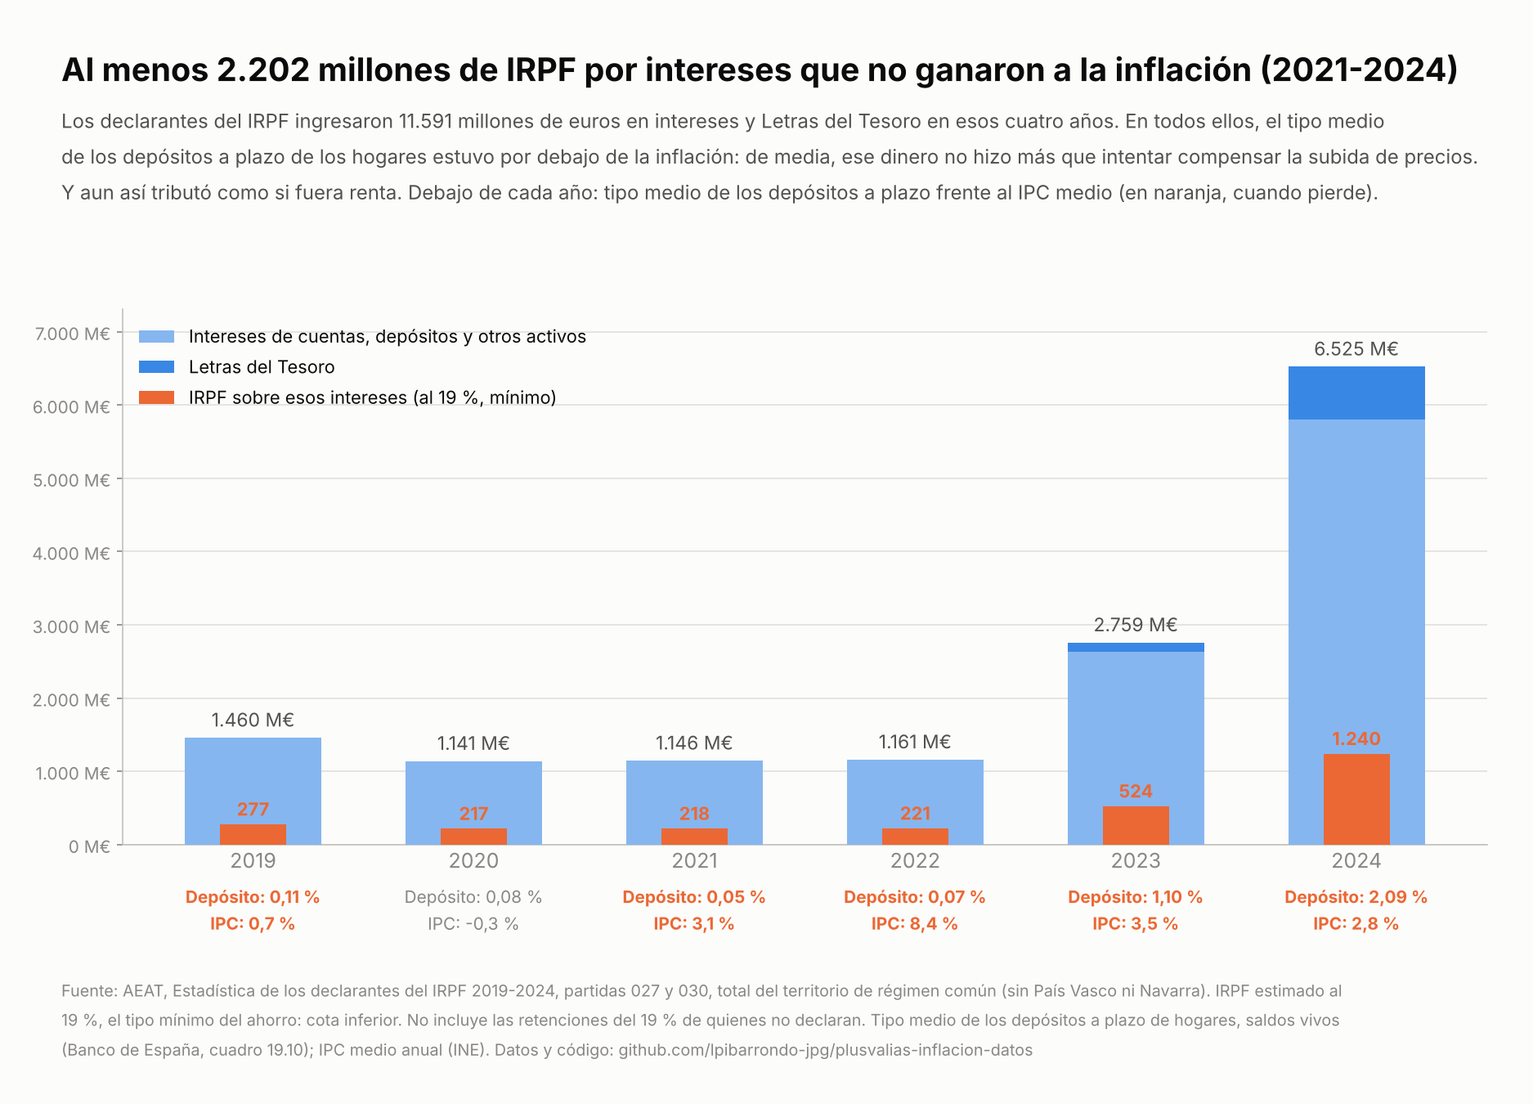
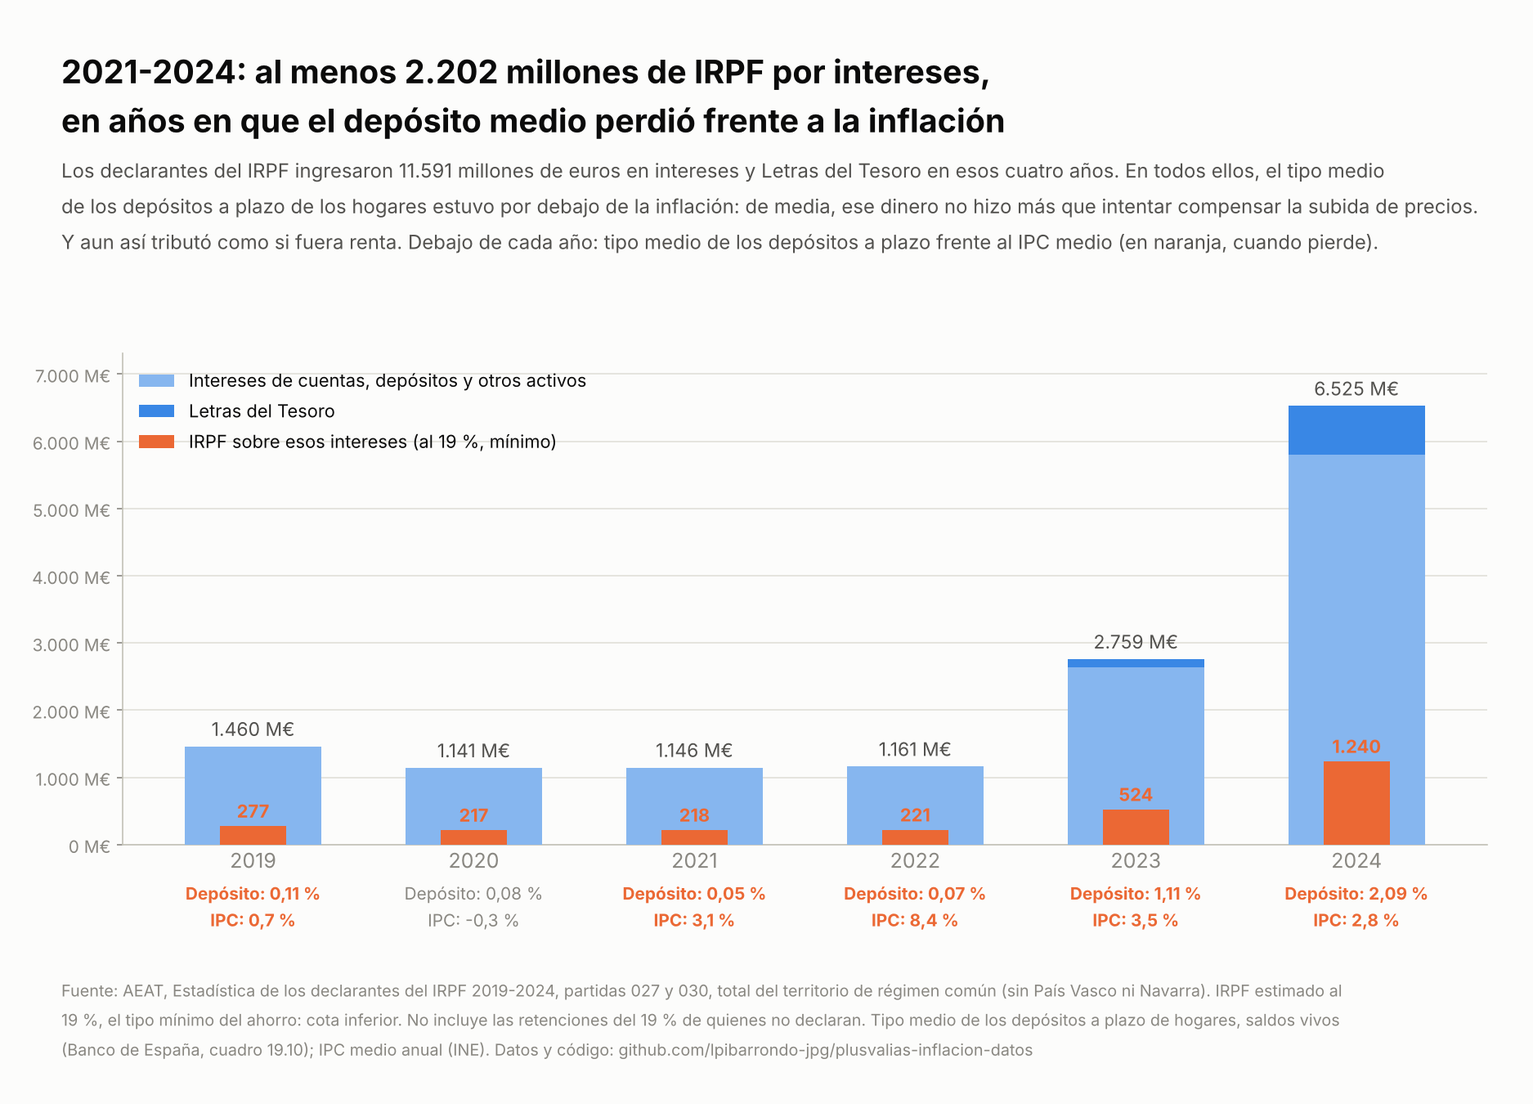
Correcciones de la segunda auditoría: titular y redondeo del gráfico 11, importe en el gráfico 12, nota del IPC 1961-2001 e informe archivado
Claude-Session: https://claude.ai/code/session_01QeTGQYbx89ftvAVY3WUtRJ

diff --git a/scripts/intereses_agregado.py b/scripts/intereses_agregado.py
@@ -25,14 +25,14 @@ def datos():
         filas.append(dict(ejercicio=y, intereses_027=imp["027"], letras_030=imp["030"], total_intereses=intereses,
                           irpf_19=round(intereses * T), cuota_ahorro_total=imp["540"] + imp["541"], base_liquidable_ahorro=imp["510"],
                           tipo_medio_ahorro=round((imp["540"] + imp["541"]) / imp["510"], 4),
-                          tipo_depositos_plazo_saldos=round(tipo, 3), ipc_medio_anual=round(ipc, 2)))
+                          tipo_depositos_plazo_saldos=round(tipo, 4), ipc_medio_anual=round(ipc, 2)))
     with open(RAIZ / "data" / "processed" / "grafico11_intereses_irpf_inflacion.csv", "w", newline="", encoding="utf-8") as f:
         w = csv.DictWriter(f, fieldnames=filas[0].keys()); w.writeheader(); w.writerows(filas)
     return filas
 
 def grafico(filas):
     fig, ax = plt.subplots(figsize=(12.5, 9), dpi=150)
-    fig.subplots_adjust(left=0.08, right=0.97, top=0.72, bottom=0.235)
+    fig.subplots_adjust(left=0.08, right=0.97, top=0.68, bottom=0.235)
     x = [f["ejercicio"] for f in filas]
     a = [f["intereses_027"] / 1e6 for f in filas]; b = [max(f["letras_030"], 0) / 1e6 for f in filas]
     irpf = [f["irpf_19"] / 1e6 for f in filas]
@@ -55,9 +55,9 @@ def grafico(filas):
     ax.legend(loc="upper left", frameon=False, fontsize=10.5)
     p = [f for f in filas if f["ejercicio"] >= 2021]
     tot = sum(f["total_intereses"] for f in p) / 1e6; ir = sum(f["irpf_19"] for f in p) / 1e6
-    fig.text(0.04, 0.955, f"Al menos {es(ir)} millones de IRPF por intereses que no ganaron a la inflación (2021-2024)",
-             fontsize=19, fontweight="bold", ha="left", va="top")
-    fig.text(0.04, 0.905,
+    fig.text(0.04, 0.955, f"2021-2024: al menos {es(ir)} millones de IRPF por intereses,\nen años en que el depósito medio perdió frente a la inflación",
+             fontsize=19, fontweight="bold", linespacing=1.25, ha="left", va="top")
+    fig.text(0.04, 0.86,
              f"Los declarantes del IRPF ingresaron {es(tot)} millones de euros en intereses y Letras del Tesoro en esos cuatro años. "
              "En todos ellos, el tipo medio\nde los depósitos a plazo de los hogares estuvo por debajo de la inflación: de media, "
              "ese dinero no hizo más que intentar compensar la subida de precios.\nY aun así tributó como si fuera renta. "

diff --git a/scripts/quien_paga.py b/scripts/quien_paga.py
@@ -58,11 +58,11 @@ def grafico(fil, res):
     fig.text(0.04, 0.955, f"No es cosa de ricos: {es(pp * 100)} de cada 100 declaraciones con intereses son de rentas de 30.000 € o menos",
              fontsize=16.5, fontweight="bold", ha="left", va="top")
     fig.text(0.04, 0.905,
-             f"En 2024, {es(res['total_personas'] / 1e6, 1)} millones de declaraciones del IRPF incluyeron intereses de cuentas y depósitos. "
-             f"{es(res['hasta30_personas'] / 1e6, 1)} millones eran de rentas totales de 30.000 € o menos.\n"
-             f"Solo en las de 12.000 a 30.000 € ({es(res['medios_personas'] / 1e6, 2)} millones de declaraciones), los intereses sumaron {es(res['medios_importe'] / 1e6)} millones "
-             f"y el IRPF, al menos {es(res['medios_importe'] * 0.19 / 1e6)} millones,\nen un año en que el depósito a plazo medio pagaba un 2,09 % "
-             "con la inflación en el 2,8 %. Bajo cada tramo: interés medio declarado e IRPF al 19 %.",
+             f"En 2024, {es(res['total_personas'] / 1e6, 1)} millones de declaraciones del IRPF incluyeron intereses. "
+             f"{es(res['hasta30_personas'] / 1e6, 1)} millones eran de rentas de 30.000 € o menos (con el {es(res['hasta30_importe'] / res['total_importe'] * 100, 1)} % del importe).\n"
+             f"Solo en las de 12.000 a 30.000 € ({es(res['medios_personas'] / 1e6, 2)} millones), los intereses sumaron {es(res['medios_importe'] / 1e6)} millones "
+             f"y el IRPF, al menos {es(res['medios_importe'] * 0.19 / 1e6)} millones, en un año en que\n"
+             "el depósito a plazo medio pagaba un 2,09 % con la inflación en el 2,8 %. Bajo cada tramo: interés medio declarado e IRPF al 19 %.",
              fontsize=11.5, color=TINTA2, ha="left", va="top", linespacing=1.5)
     pie(fig, "Fuente: AEAT, Estadística de los declarantes del IRPF 2024, partida 027 (intereses de cuentas, depósitos y activos financieros en general), por tramos\n"
              "de rendimientos e imputaciones del declarante; territorio de régimen común. No incluye Letras del Tesoro (partida 030) ni a quienes no declaran.\n"

diff --git a/auditorias/2026-11-23_gemini_segunda_ronda.md b/auditorias/2026-11-23_gemini_segunda_ronda.md
@@ -1,0 +1,108 @@
+# Informe de auditoría independiente (solo lectura) — Segunda ronda
+
+- **Proyecto auditado:** Base de datos, cálculos, gráficos y calculadora del artículo sobre IRPF, plusvalías nominales, intereses e inflación.
+- **Repositorio de referencia:** `https://github.com/lpibarrondo-jpg/plusvalias-inflacion-datos` (commit `bf58ea4`).
+- **Material revisado:** `paquete_auditoria.txt` (encargo, `README.md`, scripts de `scripts/`, tablas procesadas de `data/processed/`, extractos de `data/raw/` y lógica de `calculadora/plantilla.html`) y `graficos.pdf` (13 gráficos).
+- **Fecha del informe:** 23 de noviembre de 2026.
+- **Alcance:** Auditoría independiente de datos, cálculos, coherencia gráfica, supuestos metodológicos e imparcialidad periodística, centrada en los gráficos 6 a 12 y la calculadora (con repaso general de los gráficos 1 a 5).
+
+---
+
+## 1. Veredicto: ¿se puede publicar tal cual?
+
+**Sí, con dos ajustes menores recomendados antes de publicar (y sin ningún error crítico de cálculo).**
+
+La base numérica, las fórmulas fiscales (escala del ahorro de 2026, exención proporcional por reinversión, encadenamiento del IPC) y la documentación metodológica son sólidas y coherentes entre los scripts, los archivos CSV procesados y los gráficos finales. No se ha detectado ninguna afirmación partidista ni petición de voto.
+
+Antes de la publicación en semana electoral, conviene aplicar dos correcciones puntuales para evitar flancos de crítica técnica:
+
+1. **Matizar el titular del Gráfico 11**, añadiendo la referencia a «de media» o «en años en que el depósito medio perdió frente a la inflación», para que no parezca que el 100 % de los 11.591 millones de euros (que incluyen Letras del Tesoro de 2023 y 2024) perdieron poder adquisitivo.
+2. **Actualizar la nota metodológica del `README.md`** sobre las variaciones del IPC de 1961–2001, eliminando la frase que afirma que «no se usan en los cálculos», ya que sí se utilizan en el Gráfico 9 (1995–2001), la sensibilidad del Gráfico 5 y la calculadora.
+
+---
+
+## 2. Tabla de hallazgos
+
+| Gravedad | Archivo o gráfico | Qué falla | Cómo comprobarlo / reproducirlo | Corrección propuesta |
+| :--- | :--- | :--- | :--- | :--- |
+| **Importante** | `graficos.pdf` (Gráfico 11, p. 12) y afirmación del artículo | El titular afirma: *«Al menos 2.202 millones de IRPF por intereses **que no ganaron a la inflación** (2021-2024)»*. Esa cifra ($11.591\text{ M€} \times 19\text{ \%}$) incluye 720 M€ de Letras del Tesoro en 2024 y 124 M€ en 2023, pero el propio Gráfico 10 muestra que en 10 de las 41 subastas las Letras sí superaron a la inflación. Además, incluye intereses de rentas inferiores a 12.000 € donde el mínimo personal puede reducir o anular la cuota (como advierte el Gráfico 12). | Comparar `grafico11_intereses_irpf_inflacion.csv` (suma de partidas 027 y 030) con `grafico10_letras_12m.csv` (10 subastas con ganancia real tras impuestos) y `grafico12_intereses_por_tramo_renta_2024.csv` (tramos por debajo de 12.000 €). | Reformular el titular a: *«Al menos 2.202 millones de IRPF por intereses en años en que el depósito medio perdió frente a la inflación (2021-2024)»* (manteniendo el matiz «de media» que ya recoge correctamente el subtítulo). |
+| **Importante** | `README.md` (sección *Notas de metodología*) | Afirma que las variaciones mensuales del IPC de 1961–2001 *«se incluyen como contexto y **no se usan en los cálculos**»*. En esta segunda ronda esa frase ha quedado desactualizada: sí se usan en el Gráfico 9 (compras de 1995–2001), en el análisis de sensibilidad del Gráfico 5 y en la calculadora. | Contrastar el penúltimo párrafo de `README.md` con las funciones `ipc_encadenado()` en `scripts/acciones.py`, `sensibilidad_tenencia()` en `scripts/graficos.py` y el bucle de encadenado en `scripts/construir_calculadora.py`. | Actualizar la nota del `README.md` para explicar que esas variaciones se usan de forma aproximada en el Gráfico 9 (1995–2001), la sensibilidad del Gráfico 5 y la calculadora. |
+| **Menor** | `graficos.pdf` (Gráfico 12, p. 13) | El titular *«No es cosa de ricos: 55 de cada 100 declaraciones con intereses son de rentas de 30.000 € o menos»* es exacto en número de declaraciones, pero el gráfico no muestra que ese bloque concentra el **26,5 % del importe total** de intereses (1.540 M€ de 5.806 M€). Un lector crítico podría señalar el contraste entre número de declarantes y volumen de intereses. | Sumar `importe_eur` de los tramos hasta 30.000 € en `aeat_irpf2024_intereses_por_tramos_renta.csv`: $1.540.312.214 / 5.805.582.799 = 26,53\text{ \%}$. | Mantener el titular (es riguroso y fiel al dato), pero incluir expresamente el dato del 26,5 % del importe en el cuerpo del artículo para blindar el argumento. |
+| **Menor** | `graficos.pdf` (Gráfico 11, p. 12) y `scripts/intereses_agregado.py` | En la anotación inferior del año **2023** figura `Depósito: 1,10 %`, cuando la media exacta de `plazo_pond_saldos` en 2023 es **1,1051 %** (que redondea a **1,11 %**). Se debe a un doble redondeo: `round(tipo, 3)` produce `1.105` y el formateo posterior a 2 decimales aplica el redondeo bancario de Python a `1,10`. | Promediar los 12 meses de 2023 de `plazo_pond_saldos` en `bde_tipos_depositos_hogares_mensual.csv` ($13,2612 / 12 = 1,1051$). | Formatear el tipo sin redondeo previo intermedio en `intereses_agregado.py` (impacto de 0,01 puntos porcentuales; no altera ninguna conclusión). |
+| **Menor** | Afirmación del artículo (sección 5 del encargo) sobre el Gráfico 9 | La frase propuesta para el artículo dice: *«En 5 de 30 años de compra del IBEX el IRPF supera toda la ganancia real»*. En 2 de esos 5 años (2000 y 2007) no hay ganancia real, sino **pérdida real** (−2.237 € y −9.598 €). El subtítulo del Gráfico 9 sí es exacto (*«supera toda la ganancia real o se paga con pérdida real»*). | Revisar los años 1998, 1999, 2000, 2006 y 2007 en `grafico9_ibex_por_anio_compra.csv`. | Replicar en el texto del artículo la redacción exacta del subtítulo del gráfico: *«supera toda la ganancia real o se paga con pérdida real»*. |
+| **Menor** | Afirmación del artículo (sección 5 del encargo) sobre el ejemplo de la pensionista | *«Una pensionista con 20.000 € en un depósito en 2024 cobra 418 €, paga 79 € y la inflación se come 554 €: pierde 215 €»*. Usa una aproximación lineal ($418 - 79 - 554 = -215\text{ €}$); con la fórmula exacta de Fisher usada en los gráficos 3 y 10, la pérdida real en euros de 2024 es de **209,5 €** (diferencia de ~5 €). | Calcular $20.000 \times 0,02091 = 418,2\text{ €}$; IRPF al 19 % $= 79,46\text{ €}$; IPC 2,77 % $= 554\text{ €}$; Fisher: $20.000 \times [(1 + 0,02091 \times 0,81) / 1,0277 - 1] = -209,5\text{ €}$. | Aceptable en divulgación porque el desglose cuadra a la vista ($418 - 79 - 554 = -215$), aunque conviene indicar que es una aproximación en euros corrientes. |
+
+---
+
+## 3. Cifras verificadas sin incidencias
+
+Todas las cifras siguientes han sido recalculadas manualmente a partir de las tablas procesadas, los extractos de datos brutos y las fórmulas de los scripts, y coinciden con los valores mostrados en `graficos.pdf`:
+
+### Gráfico 5 (repaso)
+- **Porcentaje de inflación en plusvalías inmobiliarias de 2024:** rango verificado del **48,46 %** (10 años de tenencia) al **87,20 %** (17,7 años, media oficial de Registradores).
+
+### Gráfico 6 — Compra en 2007/2008 y venta en 2026 T2
+- **Variación real con inflación del 47,13 % (2007 a 2026 T2):**
+  - **España:** $(1,336 / 1,4713) - 1 = -9,19\text{ \%}$.
+  - **Comunidad de Madrid:** $(1,4083 / 1,4713) - 1 = -4,28\text{ \%}$.
+  - **Cataluña:** $(1,1832 / 1,4713) - 1 = -19,58\text{ \%}$.
+  - **Andalucía:** $(1,5061 / 1,4713) - 1 = +2,37\text{ \%}$.
+- **Recuento territorial:** **13 de 17** territorios de régimen común en 2007 (y **12 de 17** en 2008) registran subida nominal y pérdida real.
+- **Ejemplo nacional de 200.000 € (2007, sin gastos):** venta por **267.200 €**, ganancia nominal de **67.200 €**, IRPF de **14.336 €** ($6.000 \times 19\text{ \%} + 44.000 \times 21\text{ \%} + 17.200 \times 23\text{ \%}$), pérdida real de **27.055 €** (con coeficiente exacto $1,471275$) y cuota de **0 €** en Álava (valor actualizado de 297.800 €).
+
+### Gráfico 7 — Exención por reinversión en vivienda habitual (art. 41.1 RIRPF)
+- **Reinvierte 200.000 €:** fracción exenta **74,85 %**, base gravada **16.901 €**, IRPF **3.429 €**.
+- **Reinvierte 150.000 €:** fracción exenta **56,14 %**, base gravada **29.475 €**, IRPF **6.070 €**.
+- **Reinvierte 150.000 € con 60.000 € de hipoteca pendiente:** importe obtenido **207.200 €**, fracción exenta **72,39 %**, base gravada **18.551 €**, IRPF **3.776 €**.
+
+### Gráfico 8 — Grandes ciudades (piso de 80 m², valor tasado MIVAU)
+- **Madrid 2007:** media 2007 $= 3.844,925\text{ €/m}^2 \rightarrow$ compra **307.594 €**; venta 2026 T2 ($5.418,4\text{ €/m}^2$) $= $ **433.472 €**; ganancia nominal 125.878 €; IRPF **27.832 €**; pérdida real **−19.083 €**.
+- **Madrid 2019:** media 2019 $= 3.255,725\text{ €/m}^2 \rightarrow$ compra **260.458 €**; venta **433.472 €**; IRPF **38.673 €**; ganancia real 106.571 €; IRPF sobre ganancia real **36,29 %** (36 % en el gráfico).
+- **Barcelona 2019:** compra **271.940 €**, venta **368.144 €**, IRPF **21.007 €**, ganancia real 26.832 €, IRPF/ganancia real **78,29 %** (78 %).
+- **Valencia 2007:** compra **175.910 €**, venta **237.824 €**, IRPF **13.120 €**, pérdida real **−20.988 €**.
+
+### Gráfico 9 — IBEX 35 por año de compra (1995–2024)
+- **Compra en 2007:** ganancia nominal 15.290 € (**+31 %**), pérdida real −9.598 € (**−19 %**), IRPF **3.091 €**.
+- **Compra en 1999:** ganancia nominal 46.690 €, ganancia real 281 €, IRPF **9.685 €** (`>100 %` de la ganancia real).
+- **Recuento:** **5** años con IRPF $\ge 100\text{ \%}$ de la ganancia real o con pérdida real (1998–2000, 2006–2007); **8** años por encima del 50 % (añadiendo 2001, 2005 y 2008); mínimo de la serie **23,08 %** (2024).
+- **Encadenamiento del IPC anterior a 2002:** la fórmula inversa $I_{t-1} = I_t / (1 + v_t)$ está correctamente implementada en todos los scripts.
+
+### Gráfico 10 — Letras del Tesoro a 12 meses
+- **Subastas recalculadas a partir de `ti_1_4` y el IPC mensual:**
+  - `2025-09-05`: tipo marginal 1,996 %, rendimiento **2,018 %**, inflación 12m **4,916 %**, real tras IRPF **−3,128 %**.
+  - `2024-06-07`: tipo marginal 3,423 %, rendimiento **3,461 %**, inflación 12m **2,286 %**, real tras IRPF **+0,506 %**.
+  - `2025-01-10`: tipo marginal 2,384 %, rendimiento **2,410 %**, inflación 12m **2,290 %**, real tras IRPF **−0,329 %**.
+- **Recuento:** **41** subastas en total (**23** con pérdida real antes de impuestos, **8** convertidas en pérdida por el IRPF y **10** con ganancia real tras impuestos).
+- **Tenencias de hogares e ISFLSH (`be2203`):** **16,6 M€** (redondeado a 17 M€) en diciembre de 2021 a **24.428 M€** en diciembre de 2023.
+
+### Gráfico 11 — Intereses agregados (2021–2024)
+- **Suma de partidas 027 y 030 (tomando 0 € en 2022 para la 030):** **11.591.168.917 €** (11.591 M€).
+- **IRPF al 19 % (cota inferior):** **2.202.322.094 €** (2.202 M€).
+
+### Gráfico 12 — Intereses por tramo de renta (2024, partida 027)
+- **Total de declaraciones:** **6.794.229**.
+- **Rentas de 30.000 € o menos:** **3.719.116** declaraciones (**54,74 %** $\rightarrow$ 55 %).
+- **Tramo de 12.000 a 30.000 €:** **2.062.034** declaraciones, **967.730.303 €** (968 M€) de intereses y **183.868.758 €** (184 M€) de IRPF al 19 %.
+
+### Calculadora (`calculadora/plantilla.html`)
+- **Escenario 1 (ejemplo por defecto, compra junio 2015 por 150.000 € + 10.000 € de gastos; venta septiembre 2026 por 250.000 € − 7.500 € de gastos):** ganancia nominal 82.500 € $\rightarrow$ IRPF actual **17.855 €**; ganancia real 31.970 € $\rightarrow$ IRPF descontando inflación **6.594 €**.
+- **Escenario 2 (compra 2007 con ganancia nominal y pérdida real):** rama condicional, aviso de pérdida real y cálculo de cuota verificados sin errores.
+- **Escenario 3 (pérdida nominal):** cuota 0 € y cálculo de pérdida real verificados sin errores.
+
+---
+
+## 4. Valoración de metodología, supuestos e imparcialidad
+
+- **Transparencia metodológica:** Los supuestos del `README.md` y los pies de los gráficos explican con claridad las limitaciones de usar valores medios de tasación (Gráfico 8) o índices a calidad constante (Gráfico 6), el uso del IBEX 35 sin dividendos con aportaciones mensuales (Gráfico 9), el tipo marginal frente al medio en Letras (Gráfico 10), la exclusión de exenciones/gastos y la distinción entre declaraciones y personas (Gráfico 12).
+- **Cautela en rentas bajas (Gráfico 12):** Es muy acertado excluir los tramos por debajo de 12.000 € de la atribución de cuota del 19 % por el efecto del mínimo personal y familiar.
+- **Imparcialidad política:** No se observa sesgo partidista ni petición de voto en ninguno de los archivos revisados (`README.md`, `calculadora/plantilla.html` y los 13 gráficos de `graficos.pdf`). Las referencias normativas citan las leyes correspondientes (Ley 26/2009, Ley 26/2014, Ley 11/2020, Ley 31/2022, Ley 7/2024) de forma descriptiva y neutral.
+
+---
+
+## 5. Limitaciones de esta auditoría
+
+Para que quede constancia exacta de lo verificado y lo no verificado en este pase:
+
+1. **Sin ejecución de código ni redescarga directa:** No se han ejecutado los scripts de Python ni se han vuelto a descargar los ficheros originales desde INE, Banco de España, AEAT, Ministerio de Vivienda, BOE o BOTHA.
+2. **Extractos parciales en `paquete_auditoria.txt`:** El paquete no incluye los ficheros brutos completos de `ine_ipv/`, `ine_etdp/`, la serie mensual completa del IBEX 35 ni `ine_ipc_variacion_mensual.csv`. En esos puntos se ha auditado la coherencia interna, las fórmulas de los scripts y el cuadre entre tablas procesadas y gráficos, pero no la transcripción dato a dato desde la fuente primaria.
+3. **Borrador del artículo no incluido:** No se ha revisado el texto completo del artículo periodístico, por lo que corresponde al editor confirmar que el texto final menciona expresamente que la Ley 26/2014 suprimió los coeficientes de actualización y que las reformas de 2020, 2022 y 2024 subieron tipos sin corregir la base.

diff --git a/README.md b/README.md
@@ -191,7 +191,7 @@ El gráfico 4 usa el caso de 2002 con un 0,5 % de rentabilidad real anual, un es
 - Intereses: partidas 027 (intereses de cuentas, depósitos y activos financieros en general) y 030 (Letras del Tesoro) de la Estadística de los declarantes del IRPF, total nacional del territorio de régimen común. El saldo negativo de la partida 030 en 2022 (-14.005 €) se toma como cero.
 - IRPF estimado al 19 %, el tipo más bajo de la base del ahorro: es una cota inferior. El tipo medio efectivo de toda la base del ahorro fue del 21-22 % (cuota íntegra del ahorro / base liquidable del ahorro). No incluye las retenciones del 19 % soportadas por quienes no presentan declaración.
 - Comparación con la inflación: tipo medio de los depósitos a plazo de los hogares (saldos vivos, Banco de España) frente al IPC medio anual. Es una referencia agregada: no todos los intereses vienen de depósitos y algunas Letras sí batieron a la inflación (gráfico 10). Lo que se afirma es que, de media, el ahorro que paga intereses no ganó a la inflación en 2019 ni de 2021 a 2024.
-- Resultado: de 2021 a 2024, 11.591 millones de euros de intereses y Letras declarados y al menos 2.202 millones de IRPF.
+- Resultado: de 2021 a 2024, 11.591 millones de euros de intereses y Letras declarados y al menos 2.202 millones de IRPF, en años en que el depósito a plazo medio perdió frente a la inflación. No se afirma que cada euro de esos intereses perdiera: parte de las Letras de 2023 sí ganaron a la inflación (gráfico 10) y en rentas bajas el mínimo personal puede reducir la cuota.
 
 ### Supuestos del gráfico 12
 
@@ -212,10 +212,12 @@ Los 285 meses (enero 2003 – septiembre 2026) de las seis series del fichero `b
 
 Antes de publicar, el repositorio pasó una auditoría independiente en solo lectura (Gemini y otra sesión de Claude), con el encargo de `AUDITORIA_GEMINI.md`. No encontró errores críticos. Sus correcciones (titular del gráfico 5 en rango, recuento del gráfico 3, sentido del fallo de la STC 67/2023, «habría gravado» en lugar de «cobró», enlaces de la AEAT y los hallazgos menores) están incorporadas.
 
+Segunda ronda (23-11-2026, gráficos 6 a 12 y calculadora): informe completo en `auditorias/2026-11-23_gemini_segunda_ronda.md`. Sin errores críticos; verificó a mano las cifras principales de cada gráfico. Correcciones incorporadas: titular del gráfico 11 («en años en que el depósito medio perdió frente a la inflación»), redondeo del tipo de 2023 en ese gráfico (1,11 %), dato del 26,5 % del importe en el gráfico 12 y nota sobre el uso del IPC de 1961-2001. Limitaciones que el propio informe declara: no ejecutó los scripts ni redescargó las fuentes; revisó la coherencia interna sobre extractos.
+
 ## Notas de metodología
 
 - **Cambio de base.** Desde enero de 2026 el INE publica el IPC en base 2025. Es un cambio de escala: las tasas de variación no cambian respecto a bases anteriores.
-- **Periodo.** El índice exacto empieza en enero de 2002. Para 1961–2001 el INE solo ofrece variaciones redondeadas a un decimal, que se incluyen como contexto y no se usan en los cálculos.
+- **Periodo.** El índice exacto empieza en enero de 2002. Para 1961–2001 el INE solo ofrece variaciones mensuales redondeadas a un decimal (IPC290752). Se usan, encadenadas hacia atrás desde enero de 2002 y por tanto de forma aproximada, en la sensibilidad del gráfico 5, en las compras de 1995 a 2001 del gráfico 9 y en la calculadora para fechas anteriores a 2002.
 - **Comparaciones.** Para un año completo se usa el índice medio anual; para una fecha concreta, el índice del mes.
 - **Último dato.** Septiembre de 2026 (definitivo). Octubre de 2026 solo tiene dato adelantado y no se usa en ningún cálculo, aunque aparece en los ficheros de variación descargados para verificación (`ine_IPC290750_variacion_anual_2003plus.txt` e `ine_ipc_variacion_mensual.csv`).
 
